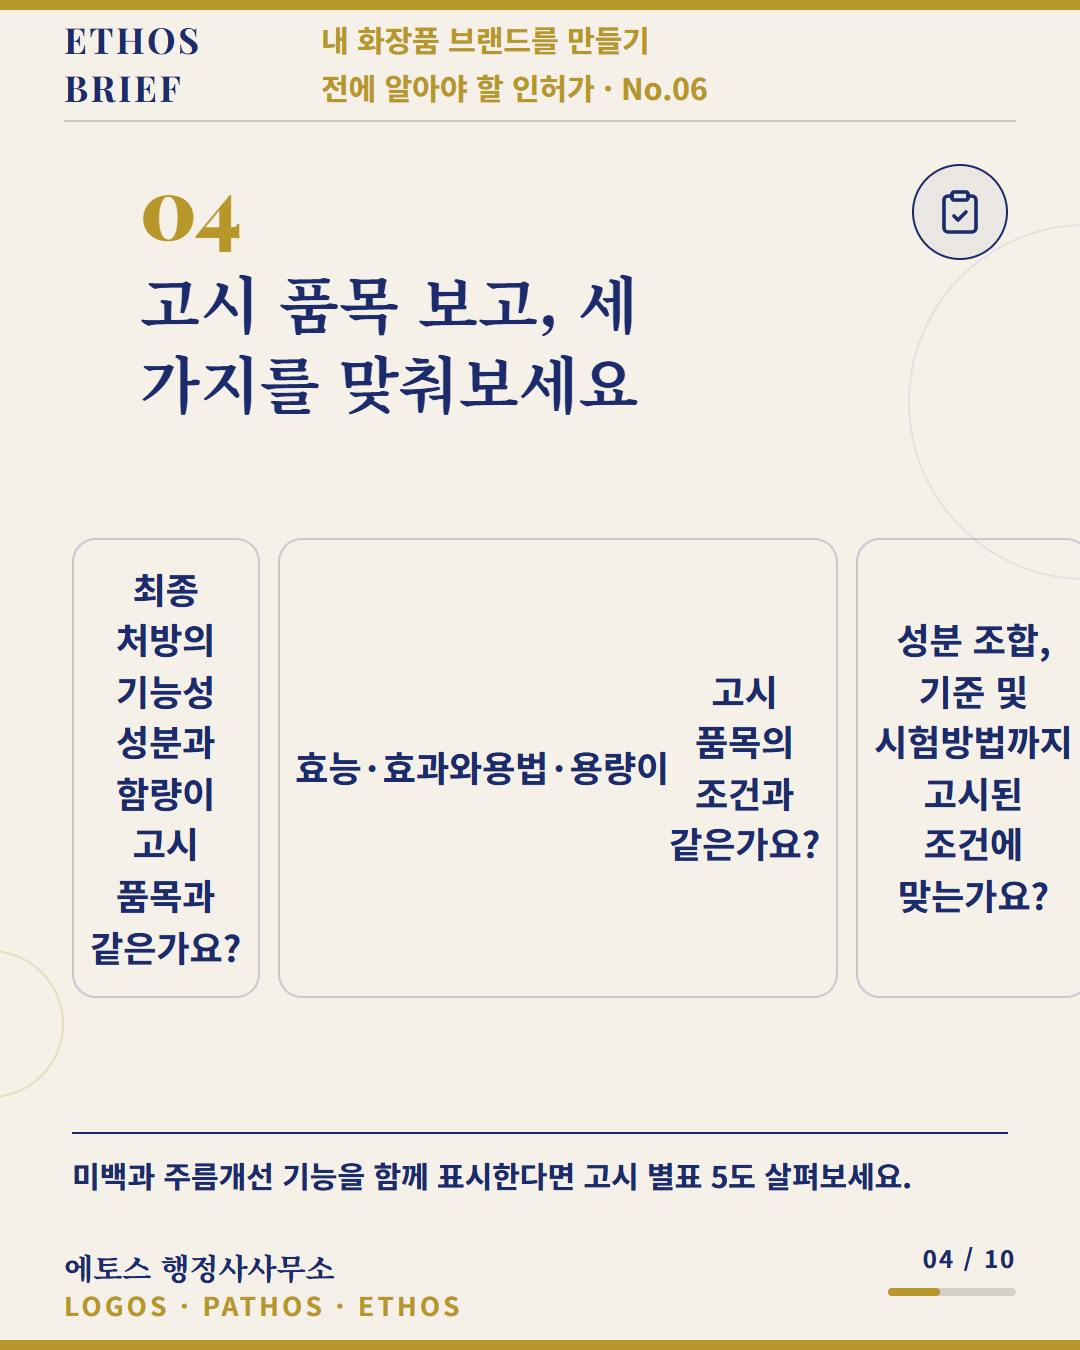
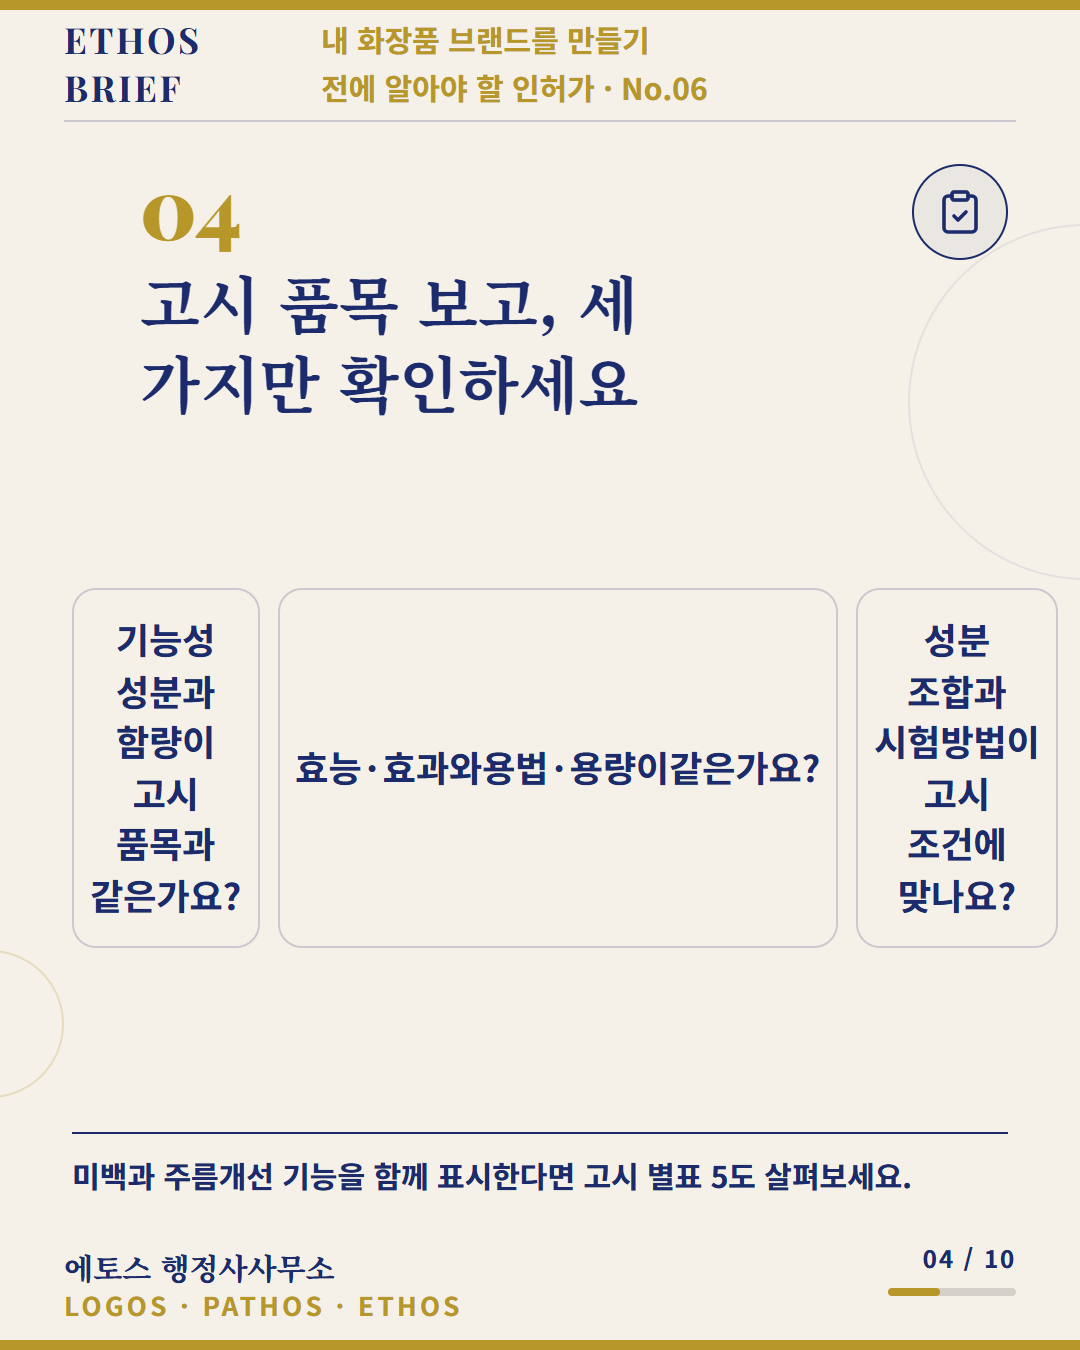
fix(cards): refine functional cosmetics layouts

diff --git a/content/COSMETICS-FUNCTIONAL-06/ko/card_10.html b/content/COSMETICS-FUNCTIONAL-06/ko/card_10.html
@@ -5,7 +5,7 @@
 <link rel="stylesheet" href="../../../templates/base.css">
 <link rel="stylesheet" href="../../../templates/card-types.css">
 </head><body>
-<div class="card cream lang-ko canvas-portrait family-social-native beat-bold pace-b has-icon dens-mid" style="--progress:100%" data-card-type="cta" data-bg="cream" data-page="10" data-canvas="portrait" data-visual-family="social-native">
+<div class="card cream lang-ko canvas-portrait family-social-native beat-bold pace-b has-icon dens-low" style="--progress:100%" data-card-type="cta" data-bg="cream" data-page="10" data-canvas="portrait" data-visual-family="social-native">
   <div class="gold-top" data-frame="gold-top"></div>
   <div class="hdr"><span class="wm" data-frame="wordmark">ETHOS BRIEF</span><span class="sec" data-frame="section">내 화장품 브랜드를 만들기 전에 알아야 할 인허가 · No.06</span></div>
   <div class="hl" data-frame="line"></div>
@@ -27,7 +27,7 @@
   <path d="M3 3 2 14l6.5 6.5a1 1 0 1 0 3-3" />
   <path d="M3 4h8" />
 </svg></span></div>
-    <div class="z-main" data-zone="main"><div class="split"><div class="split-col"><div class="split-title" data-role="subheading">직접 준비</div><div class="split-copy">최종 기능성 <span class="nobr">원료·함량</span> 자료, 기존 심사결과통지서나 보고 내역(있는 경우), OEM 계약서, 판매 제품명과 포장 시안 가운데 가진 자료를 모아주세요.</div></div><div class="split-col"><div class="split-title" data-role="subheading">에토스의 검토</div><div class="split-copy">무료 사전 검토에서 보고 요건 적용 여지, 서류 간 차이와 공장에 추가로 요청할 자료를 안내합니다. 관련 행정문서 작성과 법령상 가능한 제출 업무는 별도 유료입니다.</div></div></div></div>
+    <div class="z-main" data-zone="main"><div class="split"><div class="split-col"><div class="split-title" data-role="subheading">직접 준비</div><div class="split-copy">최종 <span class="nobr">원료·함량</span> 자료, 기존 <span class="nobr">심사·보고</span> 내역, OEM 계약서와 포장 시안을 준비합니다.</div></div><div class="split-col"><div class="split-title" data-role="subheading">에토스의 검토</div><div class="split-copy">보고 요건과 자료 차이, 공장에 요청할 내용을 안내합니다. 문서 작성은 별도 유료 업무입니다.</div></div></div></div>
     <div class="z-take" data-zone="take"><div class="take" data-role="takeaway">보유 자료로 무료 사전 검토를 요청해 주세요.</div></div>
   </div>
 

diff --git a/content/COSMETICS-FUNCTIONAL-06/ko/card_04.html b/content/COSMETICS-FUNCTIONAL-06/ko/card_04.html
@@ -10,7 +10,7 @@
   <div class="hdr"><span class="wm" data-frame="wordmark">ETHOS BRIEF</span><span class="sec" data-frame="section">내 화장품 브랜드를 만들기 전에 알아야 할 인허가 · No.06</span></div>
   <div class="hl" data-frame="line"></div>
   <div class="body">
-    <div class="z-title" data-zone="title"><div class="kicker-num" data-decor>04</div><h2 class="h2" data-role="headline">고시 품목 보고, 세 가지를 맞춰보세요</h2><span class="card-icon" data-decor aria-hidden="true"><svg class="ico" aria-hidden="true" focusable="false"
+    <div class="z-title" data-zone="title"><div class="kicker-num" data-decor>04</div><h2 class="h2" data-role="headline">고시 품목 보고, 세 가지만 확인하세요</h2><span class="card-icon" data-decor aria-hidden="true"><svg class="ico" aria-hidden="true" focusable="false"
   xmlns="http://www.w3.org/2000/svg"
  
  
@@ -25,7 +25,7 @@
   <path d="M16 4h2a2 2 0 0 1 2 2v14a2 2 0 0 1-2 2H6a2 2 0 0 1-2-2V6a2 2 0 0 1 2-2h2" />
   <path d="m9 14 2 2 4-4" />
 </svg></span></div>
-    <div class="z-main" data-zone="main"><div class="question-grid"><div class="question">최종 처방의 기능성 성분과 함량이 고시 품목과 같은가요?</div><div class="question"><span class="nobr">효능·효과와</span> <span class="nobr">용법·용량이</span> 고시 품목의 조건과 같은가요?</div><div class="question">성분 조합, 기준 및 시험방법까지 고시된 조건에 맞는가요?</div></div></div>
+    <div class="z-main" data-zone="main"><div class="question-grid"><div class="question">기능성 성분과 함량이 고시 품목과 같은가요?</div><div class="question"><span class="nobr">효능·효과와</span> <span class="nobr">용법·용량이</span> 같은가요?</div><div class="question">성분 조합과 시험방법이 고시 조건에 맞나요?</div></div></div>
     <div class="z-take" data-zone="take"><div class="editorial-close" data-role="takeaway">미백과 주름개선 기능을 함께 표시한다면 고시 별표 5도 살펴보세요.</div></div>
   </div>
 

diff --git a/content/COSMETICS-FUNCTIONAL-06/ko/card_05.html b/content/COSMETICS-FUNCTIONAL-06/ko/card_05.html
@@ -27,7 +27,7 @@
   <path d="M6 10H4a2 2 0 0 0-2 2v7a2 2 0 0 0 2 2h16a2 2 0 0 0 2-2V9a2 2 0 0 0-2-2h-2" />
   <path d="M6 21V5a2 2 0 0 1 2-2h8a2 2 0 0 1 2 2v16" />
 </svg></span></div>
-    <div class="z-main" data-zone="main"><div class="rule-list"><div class="rule-item"><div class="rule-key" data-role="subheading">심사 명의</div><div class="rule-copy">기존 심사받은 업체와 새 제품의 제조업자 또는 책임판매업자 관계부터 살펴봅니다.</div></div><div class="rule-item"><div class="rule-key" data-role="subheading">직접 개발</div><div class="rule-copy">제조업자가 같은 경우 그 업체가 직접 설계하고 개발해 생산한 제품인지 확인합니다.</div></div><div class="rule-item"><div class="rule-key" data-role="subheading">제품 조건</div><div class="rule-copy">기능성 원료 종류와 <span class="nobr">규격·함량</span>, <span class="nobr">효능·효과</span>, 시험기준, <span class="nobr">용법·용량</span>, 제형을 비교합니다.</div></div></div></div>
+    <div class="z-main" data-zone="main"><div class="rule-list"><div class="rule-item"><div class="rule-key" data-role="subheading">심사 명의</div><div class="rule-copy">기존 심사 업체와 새 제품의 <span class="nobr">제조업자·책임판매업자</span> 관계를 확인합니다.</div></div><div class="rule-item"><div class="rule-key" data-role="subheading">직접 개발</div><div class="rule-copy">같은 업체가 직접 <span class="nobr">설계·개발·생산했는지</span> 확인합니다.</div></div><div class="rule-item"><div class="rule-key" data-role="subheading">제품 조건</div><div class="rule-copy"><span class="nobr">원료·함량</span>, <span class="nobr">효능·효과</span>, 시험기준, <span class="nobr">용법·용량</span>, 제형을 비교합니다.</div></div></div></div>
     <div class="z-take" data-zone="take"><div class="editorial-close" data-role="takeaway">같은 OEM 공장에서 만들었다는 사실만으로 기존 심사 이력을 활용할 수는 없습니다.</div></div>
   </div>
 

diff --git a/content/COSMETICS-FUNCTIONAL-06/ko/card_06.html b/content/COSMETICS-FUNCTIONAL-06/ko/card_06.html
@@ -26,7 +26,7 @@
   <circle cx="11.5" cy="14.5" r="2.5" />
   <path d="M13.3 16.3 15 18" />
 </svg></span></div>
-    <div class="z-main" data-zone="main"><div class="rule-list"><div class="rule-item"><div class="rule-key" data-role="subheading">pH 기준</div><div class="rule-copy">기준 및 시험방법 중 산성도(pH) 기준은 동일성 판단에서 제외합니다.</div></div><div class="rule-item"><div class="rule-key" data-role="subheading">제형 예외</div><div class="rule-copy">일정 기능성화장품의 액제, 로션제, 크림제는 같은 제형으로 봅니다.</div></div><div class="rule-item"><div class="rule-key" data-role="subheading">효능 입증</div><div class="rule-copy"><span class="nobr">미백·주름개선</span> 품목은 기존 심사제품의 효능이 대조군 비교실험으로 입증돼야 합니다.</div></div></div></div>
+    <div class="z-main" data-zone="main"><div class="rule-list"><div class="rule-item"><div class="rule-key" data-role="subheading">pH 기준</div><div class="rule-copy">pH 기준은 동일성 판단에서 제외합니다.</div></div><div class="rule-item"><div class="rule-key" data-role="subheading">제형 예외</div><div class="rule-copy"><span class="nobr">액제·로션제·크림제는</span> 일정 조건에서 같은 제형으로 봅니다.</div></div><div class="rule-item"><div class="rule-key" data-role="subheading">효능 입증</div><div class="rule-copy"><span class="nobr">미백·주름개선은</span> 대조군 비교실험으로 효능을 입증해야 합니다.</div></div></div></div>
     <div class="z-take" data-zone="take"><div class="editorial-close" data-role="takeaway">일부 예외가 있어도 나머지 법정 일치 요건까지 없어지는 것은 아닙니다.</div></div>
   </div>
 

diff --git a/content/COSMETICS-FUNCTIONAL-06/out/ko/qa-report.md b/content/COSMETICS-FUNCTIONAL-06/out/ko/qa-report.md
@@ -7,13 +7,13 @@
 | card_01.html | cover | 88 | 30 | 0.78 | 26 | FAIL |
 | card_02.html | comparison | 153 | 50 | 0.44 | 26 | FAIL |
 | card_03.html | quote | 187 | 58 | 0.78 | 26 | FAIL |
-| card_04.html | checklist | 121 | 38 | 0.67 | 26 | FAIL |
-| card_05.html | concept | 173 | 55 | 0.66 | 26 | FAIL |
-| card_06.html | concept | 155 | 47 | 0.69 | 26 | FAIL |
+| card_04.html | checklist | 102 | 31 | 0.52 | 26 | FAIL |
+| card_05.html | concept | 150 | 44 | 0.66 | 26 | FAIL |
+| card_06.html | concept | 130 | 38 | 0.62 | 26 | FAIL |
 | card_07.html | rest | 46 | 16 | 0.75 | 26 | FAIL |
 | card_08.html | comparison | 169 | 52 | 0.39 | 26 | FAIL |
 | card_09.html | checklist | 142 | 48 | 0.55 | 26 | FAIL |
-| card_10.html | cta | 182 | 60 | 0.52 | 26 | FAIL |
+| card_10.html | cta | 126 | 41 | 0.56 | 26 | FAIL |
 
 ### card_01.html
 - frame-drift wordmark.top: 8.0 != 20
@@ -38,13 +38,12 @@
 - overflow-x:body
 - overflow-x:z-main
 - overflow-x:question-grid
-- outside-card:question
 - frame-drift wordmark.top: 8.0 != 20
 - frame-drift section.top: 8.0 != 20
 
 ### card_04.html 권고
-- paragraph-lines 8 > 권장 4: '최종 처방의 기능성 성분과'
-- paragraph-lines 6 > 권장 4: '성분 조합, 기준 및 시험'
+- paragraph-lines 6 > 권장 4: '기능성 성분과 함량이 고시'
+- paragraph-lines 6 > 권장 4: '성분 조합과 시험방법이 고'
 
 ### card_05.html
 - frame-drift wordmark.top: 8.0 != 20
@@ -77,11 +76,6 @@
 ### card_10.html
 - frame-drift wordmark.top: 8.0 != 20
 - frame-drift section.top: 8.0 != 20
-
-### card_10.html 권고
-- chars 182 > 권고 180 (문장 압축 또는 카드 분리 검토)
-- paragraph-lines 5 > 권장 4: '최종 기능성 자료, 기존 '
-- paragraph-lines 6 > 권장 4: '무료 사전 검토에서 보고 '
 
 ## 사람이 확인할 것 (자동화 불가)
 - [ ] 법령·판례 해석이 원문과 일치하는가 (변호사·행정사 최종 확인)
